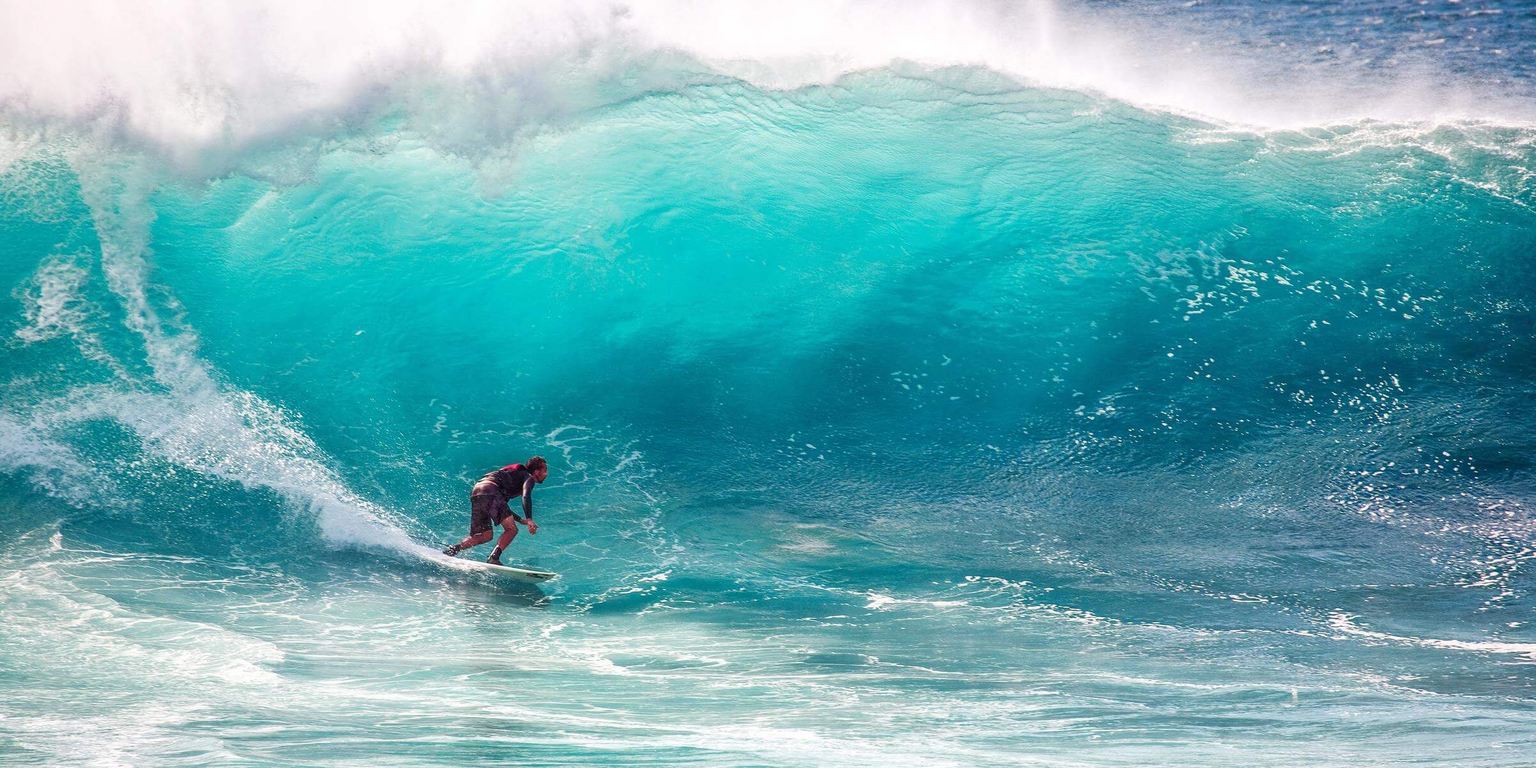
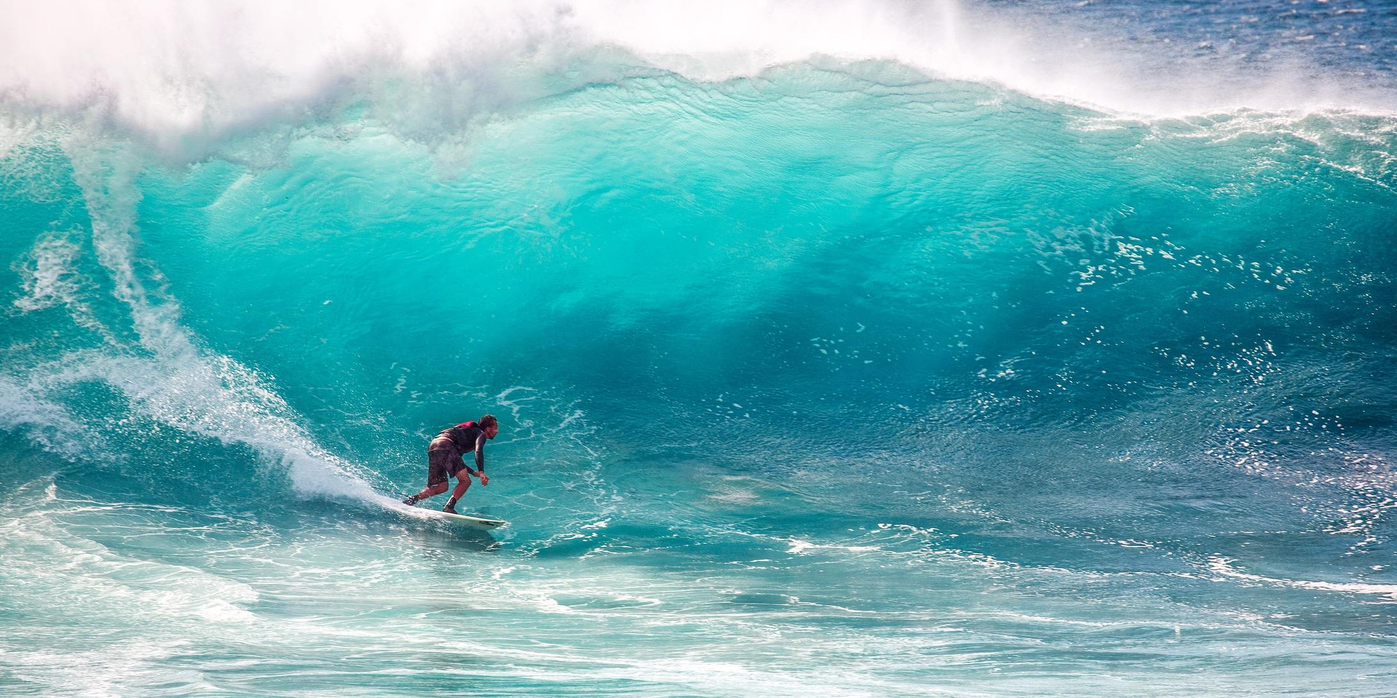
Adjusted hero images

diff --git a/resources/css/style.css b/resources/css/style.css
@@ -4,7 +4,7 @@
 
 * {
     -webkit-box-sizing: border-box;
-    box-sizing: border-box
+    box-sizing: border-box;
 }
 
 body {
